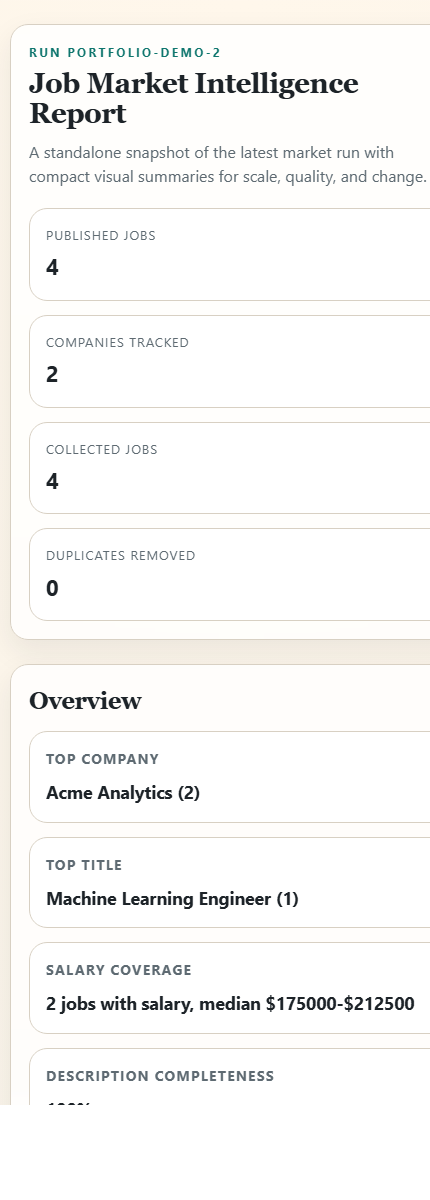
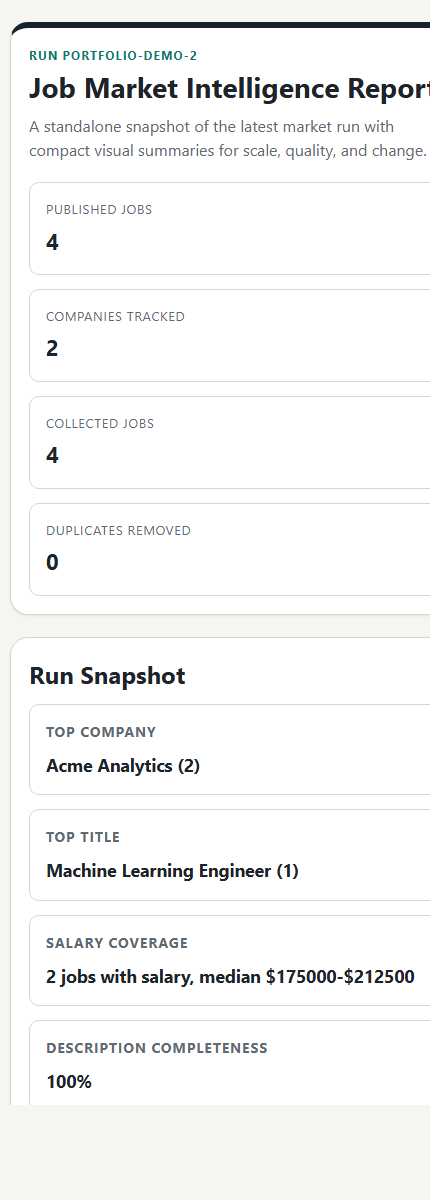
Polish report copy and screenshots

Changed region(s): [[0.0302, 0.0, 1.0, 0.925]]

diff --git a/src/jobintel/reporting/render.py b/src/jobintel/reporting/render.py
@@ -21,7 +21,7 @@ def render_market_summary_markdown(
         f"- Published jobs: **{metrics.get('total_jobs', 0)}**",
         f"- Companies tracked: **{metrics.get('companies_tracked', 0)}**",
         "",
-        "## Executive Summary",
+        "## Run Summary",
         ai_insight.summary,
         "",
     ]
@@ -29,7 +29,7 @@ def render_market_summary_markdown(
     if delta_summary:
         lines.extend(
             [
-                "## Since Previous Comparable Run",
+                "## Movement Since Previous Run",
                 f"- Baseline run: {delta_summary.get('baseline_run_id') or 'n/a'}",
                 f"- New jobs: {delta_summary.get('new_jobs', 0)}",
                 f"- Removed jobs: {delta_summary.get('removed_jobs', 0)}",
@@ -39,7 +39,7 @@ def render_market_summary_markdown(
             ]
         )
 
-    lines.append("## Skill Trends")
+    lines.append("## Skills Appearing Most Often")
     for item in metrics.get("top_skills", [])[:8]:
         lines.append(f"- {item['skill']}: {item['count']} postings")
 
@@ -51,19 +51,19 @@ def render_market_summary_markdown(
             f"- Seniority: {_distribution_text(metrics.get('seniority_distribution', {}))}",
             f"- Workplace mix: {_distribution_text(metrics.get('workplace_distribution', {}))}",
             "",
-            "## Data Quality",
+            "## Source And Data Quality",
             f"- Collected jobs: {quality_report.get('collected_jobs', 0)}",
             f"- Published jobs: {quality_report.get('published_jobs', 0)}",
             f"- Quarantined jobs: {quality_report.get('quarantined_jobs', 0)}",
             f"- Duplicates removed: {quality_report.get('duplicates_removed', 0)}",
             "",
-            "## AI Signals",
+            "## Optional Narrative Signals",
         ]
     )
     for signal in ai_insight.emerging_signals:
         lines.append(f"- {signal}")
 
-    lines.extend(["", "## Evidence"])
+    lines.extend(["", "## Evidence Notes"])
     for item in ai_insight.evidence:
         lines.append(f"- {item}")
 
@@ -145,7 +145,7 @@ def _render_overview(metrics: dict[str, Any], quality_report: dict[str, Any], ai
         ("AI confidence", _format_pct(ai_insight.confidence * 100 if ai_insight.confidence is not None else None)),
     ]
     return _section(
-        "Overview",
+        "Run Snapshot",
         [
             '<div class="panel-grid">',
             *(_overview_card(label, value) for label, value in items),
@@ -171,12 +171,12 @@ def _render_delta_summary(delta_summary: Mapping[str, Any]) -> str:
                 "</article>"
             )
 
-    return _section("Delta Summary", ['<div class="delta-grid">', *cards, "</div>"])
+    return _section("Run-to-run Movement", ['<div class="delta-grid">', *cards, "</div>"])
 
 
 def _render_skill_trends(metrics: dict[str, Any]) -> str:
     return _section(
-        "Skill Trends",
+        "Skills Appearing Most Often",
         [_render_ranked_bars(metrics.get("top_skills", []), "skill", "count", empty_label="No skill data")],
     )
 
@@ -205,7 +205,7 @@ def _render_quality(metrics: dict[str, Any], quality_report: dict[str, Any]) -> 
     salary_coverage = metrics.get("salary_coverage", {})
 
     return _section(
-        "Data Quality",
+        "Source And Data Quality",
         [
             '<div class="shape-grid">',
             _distribution_card(
@@ -246,7 +246,7 @@ def _render_ai_signals(ai_insight: AIReportInsight) -> str:
     signals = ai_insight.emerging_signals or []
     signal_items = "".join(f"<li>{escape(signal)}</li>" for signal in signals) or "<li>No emerging signals.</li>"
     return _section(
-        "AI Signals",
+        "Optional Narrative Signals",
         [
             f'<div class="quote">{escape(ai_insight.summary)}</div>',
             f'<div class="pill-row"><span class="pill">Confidence {escape(_format_pct(ai_insight.confidence * 100 if ai_insight.confidence is not None else None))}</span>{_model_pill(ai_insight.model)}</div>',
@@ -258,7 +258,7 @@ def _render_ai_signals(ai_insight: AIReportInsight) -> str:
 def _render_evidence(ai_insight: AIReportInsight) -> str:
     evidence = ai_insight.evidence or []
     items = "".join(f"<li>{escape(item)}</li>" for item in evidence) or "<li>No evidence provided.</li>"
-    return _section("Evidence", [f"<ul class=\"bullets\">{items}</ul>"])
+    return _section("Evidence Notes", [f"<ul class=\"bullets\">{items}</ul>"])
 
 
 def _render_ranked_bars(
@@ -461,17 +461,16 @@ def _first_item(items: Mapping[str, Any]) -> str:
 
 def _styles() -> str:
     return (
-        ":root{color-scheme:light;--bg:#f5f1e8;--panel:#ffffff;--panel-2:#f8f4ee;--text:#1d2328;"
-        "--muted:#5e6a72;--accent:#0f766e;--accent-2:#d97706;--border:#d8d0c3;--shadow:0 12px 30px rgba(31,41,55,.08);}"
+        ":root{color-scheme:light;--bg:#f6f5f1;--panel:#ffffff;--panel-2:#f8f7f3;--text:#1d2328;"
+        "--muted:#5e6a72;--accent:#0f766e;--accent-2:#9a5b00;--border:#d9d6cd;--shadow:0 1px 2px rgba(31,41,55,.08);}"
         "*{box-sizing:border-box}body{margin:0;overflow-x:hidden;font-family:Inter,system-ui,-apple-system,BlinkMacSystemFont,\"Segoe UI\",sans-serif;"
-        "background:radial-gradient(circle at top,#fff7eb 0,#f5f1e8 40%,#ece7dd 100%);color:var(--text);line-height:1.5;}"
-        "body::before{content:\"\";position:fixed;inset:0;pointer-events:none;background-image:linear-gradient(rgba(255,255,255,.3) 1px,transparent 1px),linear-gradient(90deg,rgba(255,255,255,.18) 1px,transparent 1px);background-size:48px 48px;mask-image:linear-gradient(to bottom,rgba(0,0,0,.2),transparent 75%);}"
-        "html{scroll-behavior:smooth}.hero,.section{width:min(1120px,calc(100vw - 32px));margin:24px auto;padding:24px;background:rgba(255,255,255,.82);backdrop-filter:blur(8px);border:1px solid var(--border);border-radius:24px;box-shadow:var(--shadow);position:relative;z-index:1;}"
-        ".hero{padding:32px}.hero h1,.section h2{margin:0 0 12px;font-family:Georgia,serif;letter-spacing:-.02em;overflow-wrap:anywhere;word-break:break-word}.hero h1{max-width:100%;font-size:clamp(1.85rem,4vw,3.5rem);line-height:1.05}"
-        ".eyebrow{margin:0 0 8px;text-transform:uppercase;letter-spacing:.18em;color:var(--accent);font-size:.76rem;font-weight:700}.lede{max-width:70ch;color:var(--muted);margin:0 0 20px;overflow-wrap:anywhere}"
-        ".hero-grid,.panel-grid,.shape-grid,.delta-grid{display:grid;grid-template-columns:repeat(auto-fit,minmax(190px,1fr));gap:14px}.card,.stat,.delta-card{min-width:0;background:var(--panel);border:1px solid var(--border);border-radius:18px;padding:16px}"
-        ".card h3,.delta-card h3{margin:0 0 10px;font-size:.88rem;text-transform:uppercase;letter-spacing:.08em;color:var(--muted);overflow-wrap:anywhere}.metric{margin:0;font-size:1.1rem;font-weight:700;overflow-wrap:anywhere}.stat span{display:block;color:var(--muted);font-size:.8rem;text-transform:uppercase;letter-spacing:.08em;overflow-wrap:anywhere}.stat strong{display:block;font-size:1.4rem;margin-top:6px}"
-        ".bars{display:grid;gap:10px}.bar-row{display:grid;grid-template-columns:1.2fr 2fr auto;gap:12px;align-items:center}.bar-row__label,.bar-row__value{font-size:.95rem}.bar-row__label{color:var(--text);overflow:hidden;text-overflow:ellipsis;white-space:nowrap}.bar-row__track,.delta-track{height:12px;background:#ede7db;border-radius:999px;overflow:hidden;border:1px solid #ddd3c4}.bar-row__fill,.delta-fill{height:100%;border-radius:inherit;background:linear-gradient(90deg,var(--accent),#4b9b95)}.delta-card--negative .delta-fill{background:linear-gradient(90deg,#dc2626,#f97316)}.delta-card--positive .delta-fill{background:linear-gradient(90deg,#15803d,#22c55e)}"
+        "background:var(--bg);color:var(--text);line-height:1.5;}"
+        "html{scroll-behavior:smooth}.hero,.section{width:min(1120px,calc(100vw - 32px));margin:22px auto;padding:24px;background:var(--panel);border:1px solid var(--border);border-radius:12px;box-shadow:var(--shadow);position:relative;z-index:1;}"
+        ".hero{padding:30px;border-top:6px solid #17212b}.hero h1,.section h2{margin:0 0 12px;letter-spacing:0;overflow-wrap:anywhere;word-break:break-word}.hero h1{max-width:100%;font-size:clamp(1.85rem,4vw,3.1rem);line-height:1.08}"
+        ".eyebrow{margin:0 0 8px;text-transform:uppercase;letter-spacing:.08em;color:var(--accent);font-size:.76rem;font-weight:700}.lede{max-width:70ch;color:var(--muted);margin:0 0 20px;overflow-wrap:anywhere}"
+        ".hero-grid,.panel-grid,.shape-grid,.delta-grid{display:grid;grid-template-columns:repeat(auto-fit,minmax(190px,1fr));gap:14px}.card,.stat,.delta-card{min-width:0;background:var(--panel);border:1px solid var(--border);border-radius:10px;padding:16px}"
+        ".card h3,.delta-card h3{margin:0 0 10px;font-size:.88rem;text-transform:uppercase;letter-spacing:.06em;color:var(--muted);overflow-wrap:anywhere}.metric{margin:0;font-size:1.1rem;font-weight:700;overflow-wrap:anywhere}.stat span{display:block;color:var(--muted);font-size:.8rem;text-transform:uppercase;letter-spacing:.06em;overflow-wrap:anywhere}.stat strong{display:block;font-size:1.4rem;margin-top:6px}"
+        ".bars{display:grid;gap:10px}.bar-row{display:grid;grid-template-columns:1.2fr 2fr auto;gap:12px;align-items:center}.bar-row__label,.bar-row__value{font-size:.95rem}.bar-row__label{color:var(--text);overflow:hidden;text-overflow:ellipsis;white-space:nowrap}.bar-row__track,.delta-track{height:12px;background:#ebe8df;border-radius:999px;overflow:hidden;border:1px solid #d9d6cd}.bar-row__fill,.delta-fill{height:100%;border-radius:inherit;background:var(--accent)}.delta-card--negative .delta-fill{background:#b43f2f}.delta-card--positive .delta-fill{background:#0c7b5d}"
         ".delta-value{margin:0 0 10px;font-size:1.6rem;font-weight:800}.quote{padding:16px;border-left:4px solid var(--accent-2);background:var(--panel-2);border-radius:14px;margin-bottom:12px;color:var(--text)}"
         ".pill-row{display:flex;flex-wrap:wrap;gap:8px;margin-bottom:12px}.pill{display:inline-flex;align-items:center;border-radius:999px;padding:4px 10px;background:rgba(15,118,110,.12);color:var(--accent);font-size:.78rem;font-weight:700}.pill--subtle{background:rgba(217,119,6,.12);color:var(--accent-2)}"
         ".bullets{margin:0;padding-left:20px;color:var(--text)}.bullets li{margin:6px 0}.kv-table{width:100%;table-layout:fixed;border-collapse:collapse;margin-top:14px;background:var(--panel);border:1px solid var(--border);border-radius:16px;overflow:hidden}.kv-table th,.kv-table td{padding:12px 14px;border-top:1px solid #ebe3d8;text-align:left;overflow-wrap:anywhere}.kv-table tr:first-child th,.kv-table tr:first-child td{border-top:none}.kv-table th{width:55%;color:var(--muted);font-weight:600}.empty{padding:14px;border:1px dashed var(--border);border-radius:14px;color:var(--muted);background:rgba(255,255,255,.55)}"

diff --git a/tests/e2e/test_cli_run.py b/tests/e2e/test_cli_run.py
@@ -89,7 +89,7 @@ companies:
     assert len(jobs) == 4
     assert quality["published_jobs"] == 4
     assert delta["has_baseline"] is False
-    assert "Skill Trends" in report_path.read_text(encoding="utf-8")
+    assert "Skills Appearing Most Often" in report_path.read_text(encoding="utf-8")
     assert "<!DOCTYPE html>" in html_report_path.read_text(encoding="utf-8")
     assert "delta_report" in json.dumps(json.loads(manifest_path.read_text(encoding="utf-8")))
     assert "fixture-run-1" in history_report_md.read_text(encoding="utf-8")

diff --git a/tests/unit/test_reporting_html.py b/tests/unit/test_reporting_html.py
@@ -54,8 +54,8 @@ def test_render_market_summary_produces_standalone_html_and_escapes_content() ->
 
     assert html.startswith("<!DOCTYPE html>")
     assert "<html lang=\"en\">" in html
-    assert "Delta Summary" in html
-    assert "Skill Trends" in html
+    assert "Run-to-run Movement" in html
+    assert "Skills Appearing Most Often" in html
     assert "Data Quality" in html
     assert "style=\"width:" in html
     assert "&lt;script&gt;alert(1)&lt;/script&gt;" in html

diff --git a/README.md b/README.md
@@ -4,10 +4,10 @@ Python CLI pipeline that collects jobs from ATS-backed company career pages, nor
 
 The project is intentionally shaped as a reliable data workflow rather than a brittle "scrape everything" demo. It focuses on reproducibility, validation, history, and business-facing reporting.
 
-## Why This Project
+## Why It Exists
 
-- Targets first-party ATS sources backed by `Greenhouse` and `Lever`
-- Uses a staged pipeline: `collect -> validate -> enrich -> report -> history`
+- Targets first-party ATS sources backed by Greenhouse and Lever
+- Uses a staged pipeline: collect, validate, enrich, report, and history
 - Produces structured outputs, manifests, quality reports, delta reports, and trend summaries
 - Persists comparable historical snapshots in DuckDB
 - Uses optional AI only where deterministic rules are weak or ambiguous
@@ -47,26 +47,26 @@ tests/
   fixtures/
 ```
 
-## Pipeline Stages
+## Pipeline
 
-1. `collect`
+1. Collect
    - Pulls public ATS-backed job data for configured companies
    - Stores raw source snapshots under `data/raw/<run_id>/`
-2. `validate`
+2. Validate
    - Cleans HTML
    - Canonicalizes URLs
    - Normalizes location, employment type, and salary fields
    - Applies validation rules and quarantines invalid rows
    - Removes duplicates
-3. `enrich`
+3. Enrich
    - Extracts skills from a curated keyword taxonomy
    - Infers role family and seniority deterministically
    - Optionally calls the OpenAI Responses API for ambiguous cases only
-4. `report`
+4. Report
    - Builds market metrics and data-quality summaries
    - Compares the current run to the latest stored baseline
    - Exports CSV, JSON, markdown, and HTML outputs for the current run
-5. `history`
+5. History
    - Builds multi-run trend reports from the history store for comparable runs
 
 ## Source Strategy
